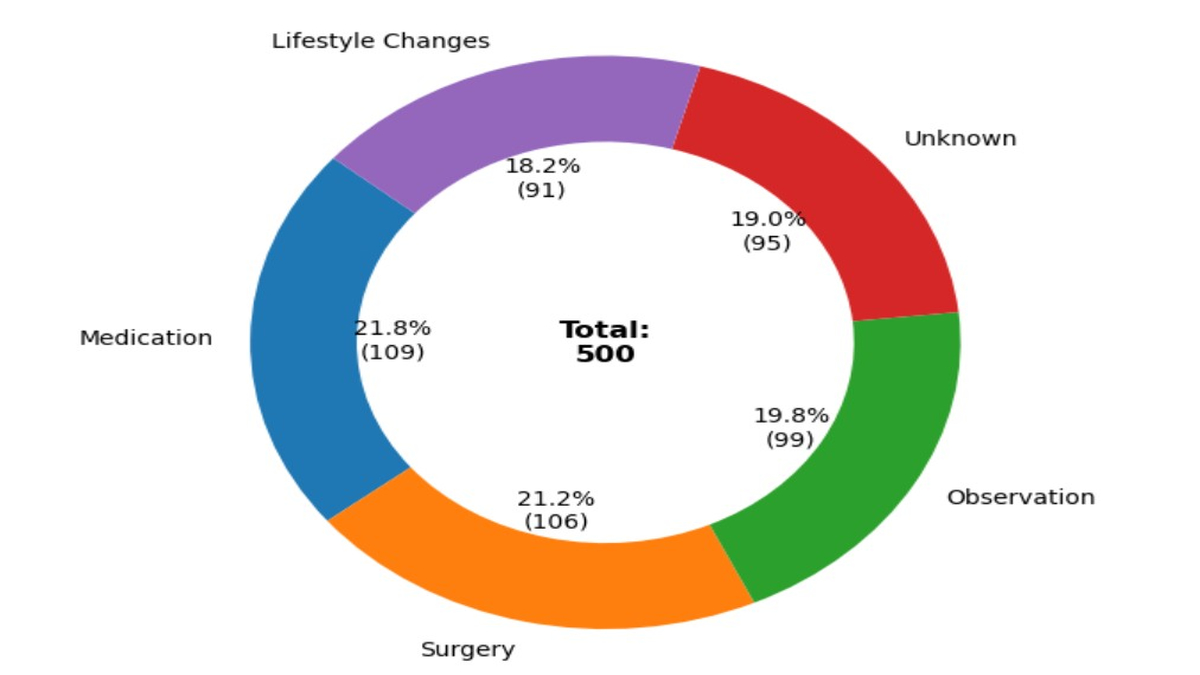
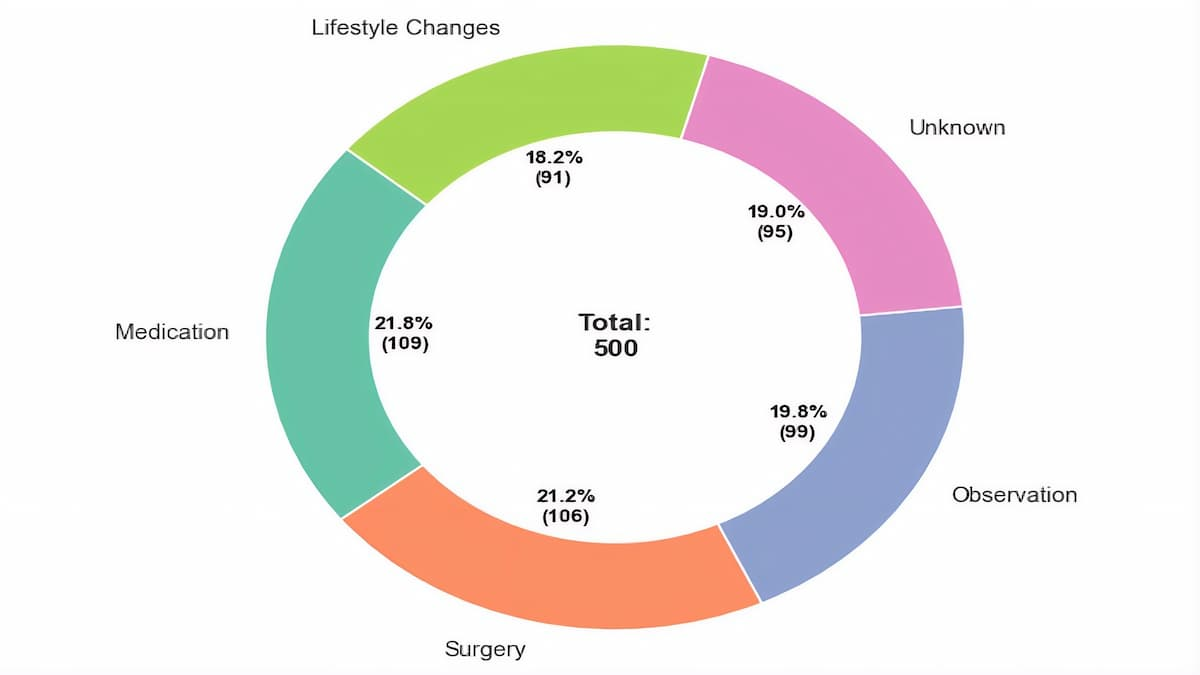
update portfolio content

Changed region(s): [[0.0617, 0.0311, 0.925, 0.9956], [0.4625, 0.4667, 0.555, 0.56]]

diff --git a/docs/journey.html b/docs/journey.html
@@ -160,13 +160,13 @@ gtag('config', 'G-E4XBZLY3Z5', { 'anonymize_ip': true});
 <div class="timeline">
 <div class="timeline-item">
 <p><strong>MPS in Informatics</strong><br>
-<em>Northeastern University, Canada</em><br>
+<em>Northeastern University, Toronto</em><br>
 <strong>2025 – 2026</strong><br>
 Specialised in Data Science &amp; Health Analytics.</p>
 </div>
 <div class="timeline-item">
 <p><strong>MPhil in Computer Science</strong><br>
-<em>University of Energy and Natural Resources</em><br>
+<em>University of Energy and Natural Resources, Sunyani</em><br>
 <strong>2021 – 2023</strong><br>
 Focused on Artificial Intelligence &amp; Software Engineering.</p>
 </div>

diff --git a/docs/projects.html b/docs/projects.html
@@ -166,8 +166,8 @@ gtag('config', 'G-E4XBZLY3Z5', { 'anonymize_ip': true});
 <p><img src="img/projects/PatientRecords.jpg" class="img-fluid"></p>
 <section id="patient-health-records-eda" class="level3 project-card-content">
 <h3 data-anchor-id="patient-health-records-eda">Patient Health Records EDA</h3>
-<p>Exploratory data analysis of a real-world healthcare dataset using Python and Pandas. Loaded, cleaned, and analysed the data, then built charts to uncover key patterns.</p>
-<p><strong>Tech:</strong> Python, Pandas, Matplotlib, Seaborn, etc.</p>
+<p>Full EDA pipeline on a synthetic healthcare dataset using Python and pandas. Cleaned, analysed, and visualised the data to uncover key patterns across diagnosis, age, and treatment.</p>
+<p><strong>Tech:</strong> Python, Pandas, Matplotlib, Seaborn</p>
 <p><a href="https://github.com/kduffuor/patient-health-records-eda" target="_blank">GitHub</a></p>
 </section>
 </div>